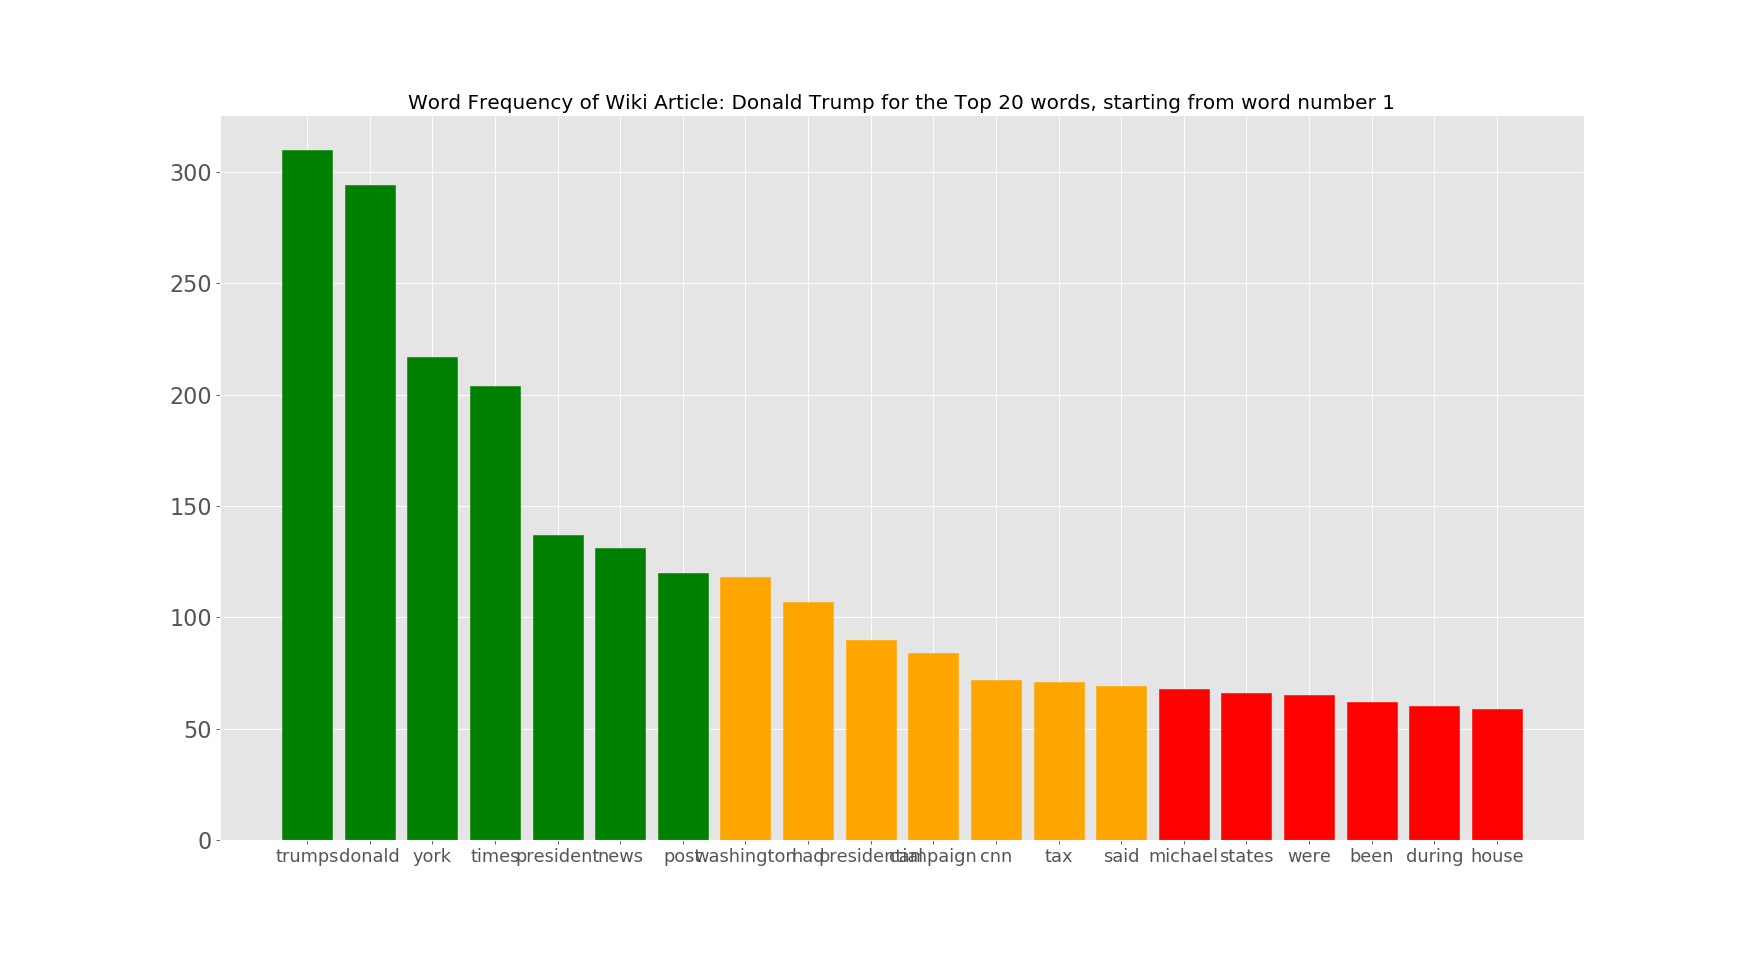
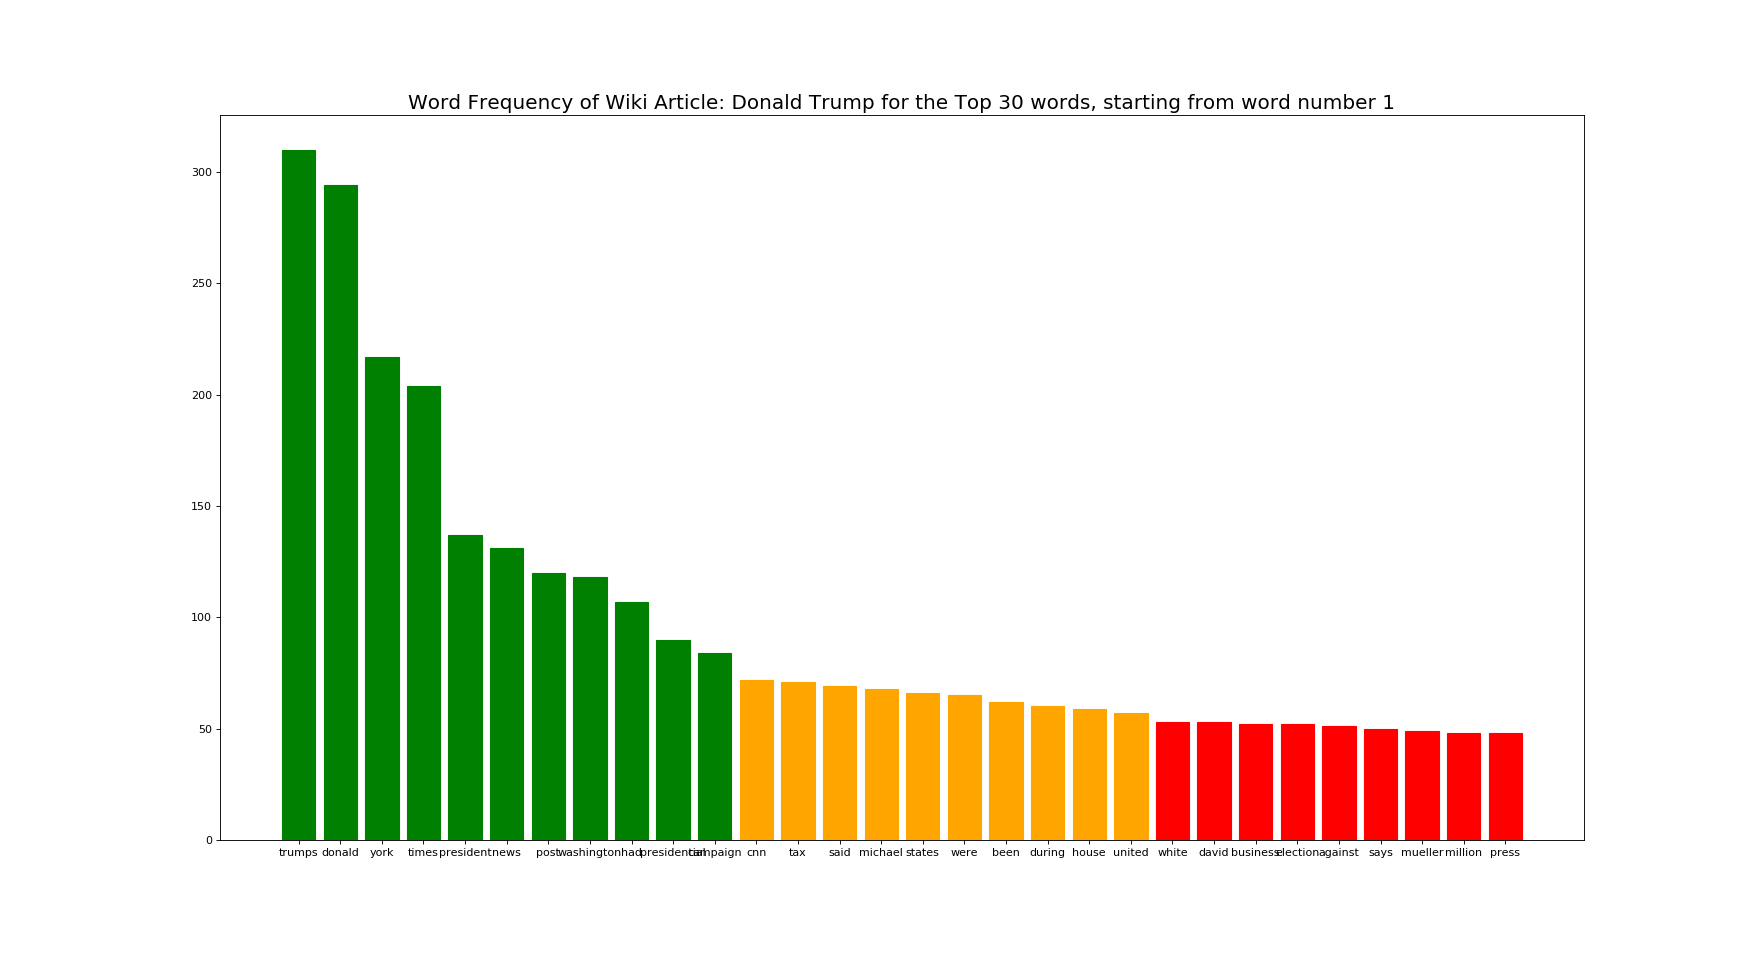
Updated wikiscrape.py to have better comments

diff --git a/wikiscrape.py b/wikiscrape.py
@@ -1,9 +1,9 @@
-
+#!/usr/bin/env python
 # coding: utf-8
 
-# In[17]:
+# In[ ]:
 
-import math
+
 import requests #Get the HTML code
 from bs4 import BeautifulSoup #Tidy up the code
 from collections import Counter #Counter to count occurances of each word
@@ -11,31 +11,31 @@ import matplotlib.pyplot as plt #graph plotting
 import re #regular expression to check if language setting is exactly 2 letters (for non common langs) in the argument
 import os #for plotwords to tell where file is saved
 
+#var = wikiscrape.wiki('Article Search',optional arguments 2-4)
+#Arg 1 is article name in string, Arg 2 is to format in proper case (default Yes), Arg 3 is language (default EN), Arg 4 is use stoplist of NLTK (default No)
 class wiki:
 
-    #the main features of cleaning the wiki site and whether the site is valid is run in __init__
-    
+    #The main features of cleaning the wiki site and whether the site is valid is run in __init__
     def __init__(self,title,option='Yes',lang='en',checknltk='No'):
         print("Page is loading...\n")
         self.graphtitle = title #for graph title labelling
         if isinstance(title, str) == True:
             if str(option).lower() == 'yes' or str(option) == '':
-                self.title = str(title.title()) #title on LHS is variable input, RHS is function for proper case/title case
+                self.title = str(title.title()) 
                 print("Search text formatted to title/proper case by default. Set second argument as 'No' to disable formatting")
             elif str(option).lower() == 'no':
                 print("Search text has preserved the cases of each letter. Set second argument as 'Yes' to format to title/proper case")
                 self.title = title
             else:
-                self.title = title.title() #title on LHS is variable input, RHS is function for proper case/title case
+                self.title = title.title() 
                 print('Invalid option for preserving case of search text, title/proper case will be used by default')
-            #As long as title is string, regardless of option the replacement for title for URL can be done
             self.title = str(self.title.replace(" ", "_")) #Convert spaces to _ as is Wikipedia page format
         else:
             print('Error encountered, search text (first argument) is not written as a string with quotes. Please try again')
         
         
-        #Checking if you should use NLTK library, default set to False
-        self.nltkrun = False #default is don't use it for stoplist
+        #Checking if you should use NLTK library for stoplist, default set to False
+        self.nltkrun = False 
         if isinstance(checknltk, str): #check for string yes, no and other permutations
             if checknltk.lower().strip() in {'yes','true','y','t'}:
                 import nltk
@@ -132,7 +132,7 @@ class wiki:
             self.lang = 'en'
             print('Invalid language settings or not in string format, hence English articles used by default\n')
         
-        
+        #Get URL of Wikipedia Article
         self.url = 'https://' + self.lang + '.wikipedia.org/wiki/' + self.title #combine the two to get full URL
 
         try: 
@@ -144,38 +144,32 @@ class wiki:
             print('Error with language settings, English used as default\n')
 
         self.contents = self.page.content 
-        self.soup = BeautifulSoup(self.contents, 'html.parser') #Parse the HTML nicely with formatting
-        
+        #Parse the HTML nicely with formatting
+        self.soup = BeautifulSoup(self.contents, 'html.parser') 
         
         self.trancetext = self.soup.find_all('p') #obtain all paragraphs starting with tag <p>
         self.trancetext2 = self.soup.find_all('li') #obtain all paragraphs starting with tag <li>
-#         self.trancetext3 = self.soup.find_all('dd')
 
-        #get paragraphs from trancetext with special format into a list
+        #Get paragraphs from trancetext with special format into a list
         self.para=[]
         for paragraph in self.trancetext: #append paragraphs starting with <p>
             self.para.append(paragraph)
 
-        self.relatedtopic = ",*RELATED WIKI TOPIC*" #to add to points with a link and are on sidebar
+        self.relatedtopic = ",*RELATED WIKI TOPIC*" #Identify topics in Wikipedia with an URL to point out to user
         for paragraph in self.trancetext2: #append paragraphs starting with <li>
             if str(paragraph).find('<li><a href=') != -1:
                 if str(paragraph).find('</a></li>') != -1 or str(paragraph).find('</a></sup></li>') != -1: 
                     self.para.append(self.relatedtopic)
             if str(paragraph).find('toctext') == -1: #remove Wiki headers 1.2.3 with toctext as they can't be arranged properly
                 self.para.append(paragraph)
-
-#         for paragraph in self.trancetext3: #append paragraphs starting with <li>
-#             if str(paragraph).find('<a href=') != -1:
-#                 self.para.append(paragraph)
-#                 self.para.append(self.relatedtopic)
-
     
         #REASON WHY WE HAVE TO DO TWO FOR LOOPS WITH TWO TRANCETEXT IS BECAUSE THE FIND_ALL FOR ARRAY IS NOT IN ORDER
-        #COMMENCE CLEANING OF NONSENSE HTML <> and WIKI LINK [no]
+        #COMMENCE CLEANING OF UNWANTED HTML <> and WIKI LINK [no]
         
         #For FIXING the summary function
         self.troubleshoot = self.para
         
+        #DATA CLEANING OF UNWANTED HTML <> and []
         self.para = list(str(self.para)) #chop everything into letters for cleaning
         
         #This block of code removes the first letter [, removes any words with <> html tag or [] citation
@@ -186,7 +180,7 @@ class wiki:
         self.bracket = 0 #check if letter is inside bracket
         self.li = 0 #check for <li> to line break
         self.p = 0 #check for <p> to line break
-        self.point = 0 #after <li>, puts a • before adding new letter
+        self.point = 0 #after <li> or list, puts a • before adding new letter
         self.para2 = []
         for letter in self.para:
             if self.first == 0:
@@ -240,7 +234,7 @@ class wiki:
         self.para1 = []
         
         
-        #WORD COUNT (SELF.PARA3) AND COMMON WORDS (SELF.TRANCECOUNTER)
+        #GET WORD COUNT (SELF.PARA3) AND FREQUENCY OF COMMON WORDS (SELF.TRANCECOUNTER)
         
         self.para3 = self.para2.split() #split paragraphs into words again for counting
         self.niceword = ''
@@ -252,7 +246,7 @@ class wiki:
                 self.niceword = self.niceword.replace(punctuation,'') #clean up bad punctuation
             self.para3[index] = self.niceword 
         self.trancecounter = Counter(self.para3) 
-        #counter solely used for word count, cannot be used as banlist not implemented yet. 
+        #counter solely used for word count, need another counter for words after the word stoplist is implemented. 
         #Make new trancecounter2+banlist for use
         self.allwords = dict(self.trancecounter.most_common()) 
         #convert to dictionary so that for loop can extract words + do unique word count + total word count
@@ -340,15 +334,18 @@ class wiki:
         self.goodsite = 1
         self.offsite = 0
         
-        for sentence in self.trancetext: #check if a site goes through but it is an ambiguous site (recommendations page)
+        #Check if a site goes through but it is an ambiguous site (recommendations page)
+        for sentence in self.trancetext: 
             #refer to: phrase belongs in a <p> paragraph
             if str(sentence).find("refer to:") != -1:
                 self.offsite = 1            
         
-        for sentence in self.missing: #RUN THROUGH EVERY ELEMENT IN LIST
+        #Check if Wikipedia article exists
+        for sentence in self.missing: 
             if str(sentence) == "<b>Wikipedia does not have an article with this exact name.</b>": #CONVERT ELEMENT TO STRING TYPE BEFORE CHECK!!!
                 self.goodsite = 0 #sentence exists, bad site means counter flips to 0
         
+        #Confirmation for successful Wikipedia site load
         if self.goodsite == 1 and self.offsite == 0:
             print('Wikipedia page loaded successfully!! Type variablename.HELP() for documentation of functions.')
         
@@ -356,17 +353,18 @@ class wiki:
             self.parashort = []
             self.noofpara = 0
             for paragraph in self.trancetext: #append ONLY 2 paragraphs starting with <p>
-                if self.noofpara < 2 and str(paragraph) != '<p class="mw-empty-elt">\n</p>' and len(str(paragraph)) > 199 and str(paragraph).find('.svg') == -1: 
+                if self.noofpara < 2 and str(paragraph) != '<p class="mw-empty-elt">\n</p>' and len(str(paragraph)) > 199: 
                     self.parashort.append(paragraph)
                     self.noofpara += 1
 
+            #Data cleaning for printing out summary of Wikipedia (2 paragraphs) if search is successful
             self.parashort = list(str(self.parashort)) #chop everything into letters for usage
-            self.start = 0 #is letter currently inside tag <>
-            self.end = 0 #has <> just ended, need to check for , if it just ended to not copy a comma after <>
-            self.first = 1 #first letter is [, need to omit
-            self.bracket = 0 #check if letter is inside bracket
-            self.li = 0 #check for <li> to line break
-            self.p = 0 #check for <p> to line break
+            self.start = 0 
+            self.end = 0 
+            self.first = 1 
+            self.bracket = 0 
+            self.li = 0 
+            self.p = 0 
             self.parashort2 = []
             for letter in self.parashort:
                 if self.first == 0:
@@ -407,6 +405,7 @@ class wiki:
             print(self.parashort2)
             #print two paragraphs when search is successful
             
+        #Ambiguous search detecton and suggested article names
         elif self.goodsite == 1 and self.offsite == 1:
             print('\nThe title "'+ self.title.replace("_", " ") + '" you specified is ambiguous. As a result, you are linked to a clarification page.\n\n')
             print('Here are some suggestions to use: \n')
@@ -443,10 +442,11 @@ class wiki:
                     print(link)
             
         else:
+            #Unable to fnd Wikipedia Page
             print('Wikipedia page could not be found for "' + str(self.title.replace("_", " ")) + '". Please try again!') 
             print('Other useful information: Enclose title argument with single quotes. Spaces are allowed, and title is case insensitive.')
         
-    
+    #Retrieves full text of Wikipedia Article, 'Yes' for 2nd argument to output/return it instead of print
     def gettext(self,outfull='No'): #comes after init
         if isinstance(outfull, str): #check for string yes, no and other permutations
             if outfull.lower().strip() in {'yes','true','y','t'}:
@@ -469,7 +469,7 @@ class wiki:
             print("2nd argument not a string, full text is printed by default. To set as output, put 'yes' in argument")
             print(self.para2)
 
-        
+    #Show frequency count of most common words, able to select number of words to output
     def commonwords(self,wordcount=100):
         self.wordcount = 100
         if wordcount != 100 and isinstance(wordcount, int) == True:
@@ -480,6 +480,8 @@ class wiki:
         self.topwords = dict(self.trancecounter.most_common(self.wordcount))
         return self.topwords
         
+    #Show frequency count of most common words based on percentage of word count in the article
+    #e.g. 10% of 10,000 words is 1,000 words, the N most common words with total frequency =< 1000 will be retrieved
     def commonwordspct(self,percent=10):
         self.percent = 10
         if isinstance(percent, int) == True or isinstance(percent, float) == True:
@@ -508,6 +510,7 @@ class wiki:
         else:
             print('The most common word has a percentage occurance higher than the threshold set as the percentage set is too low.\n')
     
+    #Determine total word count and unique word count after banlist/word stoplist
     def totalwords(self): #word count are all BEFORE banlist
         print('Total word count is ' + str(self.fullcount))
         print('Total word count is ' + str(self.fullcount2) + ' after implementing banlist\n')
@@ -515,6 +518,7 @@ class wiki:
         print('Unique word count AFTER BANLIST is ' + str(self.fullwords2) + ' for the Wikipedia site titled ' + str(self.title.replace("_", " ")))
         return [self.fullcount,self.fullcount2,self.fullwords,self.fullwords2]
     
+    #Plot the most common words, 2nd argument allows you to choose number of words to plot, and 3rd arg is the Nth most common word to start plotting from
     def plotwords(self,wordcount2=20,start=1):
         if isinstance(wordcount2, int) == True and isinstance(start, int) == True:
             if start < 1 or wordcount2 < 1:
@@ -545,11 +549,7 @@ class wiki:
             elif self.wordno_graph == self.wordcount2:
                 break
                 #stop loop once required words are retrieved
-
-        #Banlist for year            
-#         yearban = ('2019','2018','2017','2016','2015','2014','2013','2012','2011','2010')
-#         for word in yearban: #deleteyears 2009 to 2019
-#             self.topwords2.pop(word,None)                  
+              
                     
         #matplotlib.pyplot.bar(range, height, tick_label)
         self.wordnames = list(self.topwords2.keys())
@@ -557,12 +557,10 @@ class wiki:
 
         #tick_label does the some work as plt.xticks()
         plt.figure(figsize=(22, 12), dpi= 80, facecolor='w', edgecolor='k')
-        plt.rc('xtick', labelsize=math.ceil(30*math.exp(-self.wordno_graph*0.05))+4) 
-        plt.rc('ytick', labelsize=20) 
-        plt.style.use('ggplot')
         self.localgraph = plt.bar(range(len(self.topwords2)),self.wordvalues,tick_label=self.wordnames)
         plt.title('Word Frequency of Wiki Article: ' + self.graphtitle + ' for the Top ' + str(self.wordno_graph) + ' words, starting from word number ' + str(self.start),fontsize=18)
         
+        #Colored bar graphs divided by green (most frequent words), orange (moderate), red (not as frequent)
         for i in range(self.wordno_graph):
             if i <= float(self.wordno_graph)/3:
                 self.localgraph[i].set_color('green')
@@ -589,6 +587,7 @@ class wiki:
 #         plt.show()
 
 
+    #Plot the most commonly cited Years in the article for time analytics, able to change number of Years to show
     def plotyear(self,yearcount3=20):
         if isinstance(yearcount3, int) == True:
             if yearcount3 < 1:
@@ -631,9 +630,6 @@ class wiki:
 
         #tick_label does the some work as plt.xticks()
         plt.figure(figsize=(22, 12), dpi= 80, facecolor='w', edgecolor='k')
-        plt.rc('xtick', labelsize=math.ceil(53*math.exp(-self.actualyearcount*0.06))+4) 
-        plt.rc('ytick', labelsize=20) 
-        plt.style.use('ggplot')
         self.yeargraph = plt.bar(range(len(self.yearlist)),self.yearvalues,tick_label=self.yearnames)
         plt.title('Interest in ' + self.graphtitle + ' over the years measured by Frequency Count of each Year',fontsize=20)
         
@@ -657,7 +653,7 @@ class wiki:
         self.cwd = os.getcwd()
         print('Graph is saved as yearcount.png in directory: ' + str(self.cwd))
     
-
+    #Retrieve summary of Wikipedia article, able to choose number of paragraphs (1st arg), and to return/output as string (2nd arg) instead of print
     def summary(self, paravalue=2, outsummary='no'):
         self.paravalue = 2
         if isinstance(paravalue, int) == True:
@@ -668,7 +664,7 @@ class wiki:
         else:
             print('The number of paragraphs specified is not an integer. Default 2 paragraphs will be displayed \n')
         
-        #MAKE AN ARRAY AND STRING FOR JUST 2 PARAGRAPHS!
+        #MAKE AN ARRAY AND STRING FOR JUST N PARAGRAPHS!
         self.parashort = []
         self.noofpara = 0
         for paragraph in self.trancetext: #append ONLY 2 paragraphs starting with <p>
@@ -742,13 +738,14 @@ class wiki:
             print("2nd argument not a string, summary is printed by default. To set as output, put 'yes' in 2nd argument")
             print(self.parashort2)
             
-         
+    #HELP and basic documentation of available functions
     def HELP(self):
         print('The wiki() class accepts 4 arguments. The first one is a compulsory title of the Wikipedia page. Second is to preserve the search casing (Yes/No).\n')
         print('Third is for language settings (e.g. English, de, francais, etc.). Fourth is for implementing NLTK stoplist in provided languages (Yes/No).\n')
         print('commonwords accepts 1 optional argument (default: 100) for the number of most common words in the site to show\n')
         print('commonwordspct accepts 1 optional argument (default: 10) on the percentage threshold of word count to determine the most common words\n')
-        print('plotwords accepts 1 optional argument (default: 20) for the number of most common words to show as a GRAPH\n')
+        print('plotwords accepts 2 optional arguments. The first argument (default: 20) is for the number of most common words to show as a GRAPH. The second argument is the Nth most frequent word to start plotting from. (default: 1, starting from most frequent word)\n')
+        print('plotyear accepts 1 optional argument. The first argument (default: 20) is the number of years to plot in the graph. The frequency count of the most common years will be plotted. This allows the user to understand the years of interest for the Wikipedia Topic.\n')
         print('totalwords accepts 0 arguments and shows the total word count and unique word count\n')
         print('summary accepts 1 optional argument for the number of paragraphs (default: 2) and gives a summary of the Wikipedia page\n')
         print('gettext accepts 0 arguments and retrieves the full text of the Wikipedia title\n')
